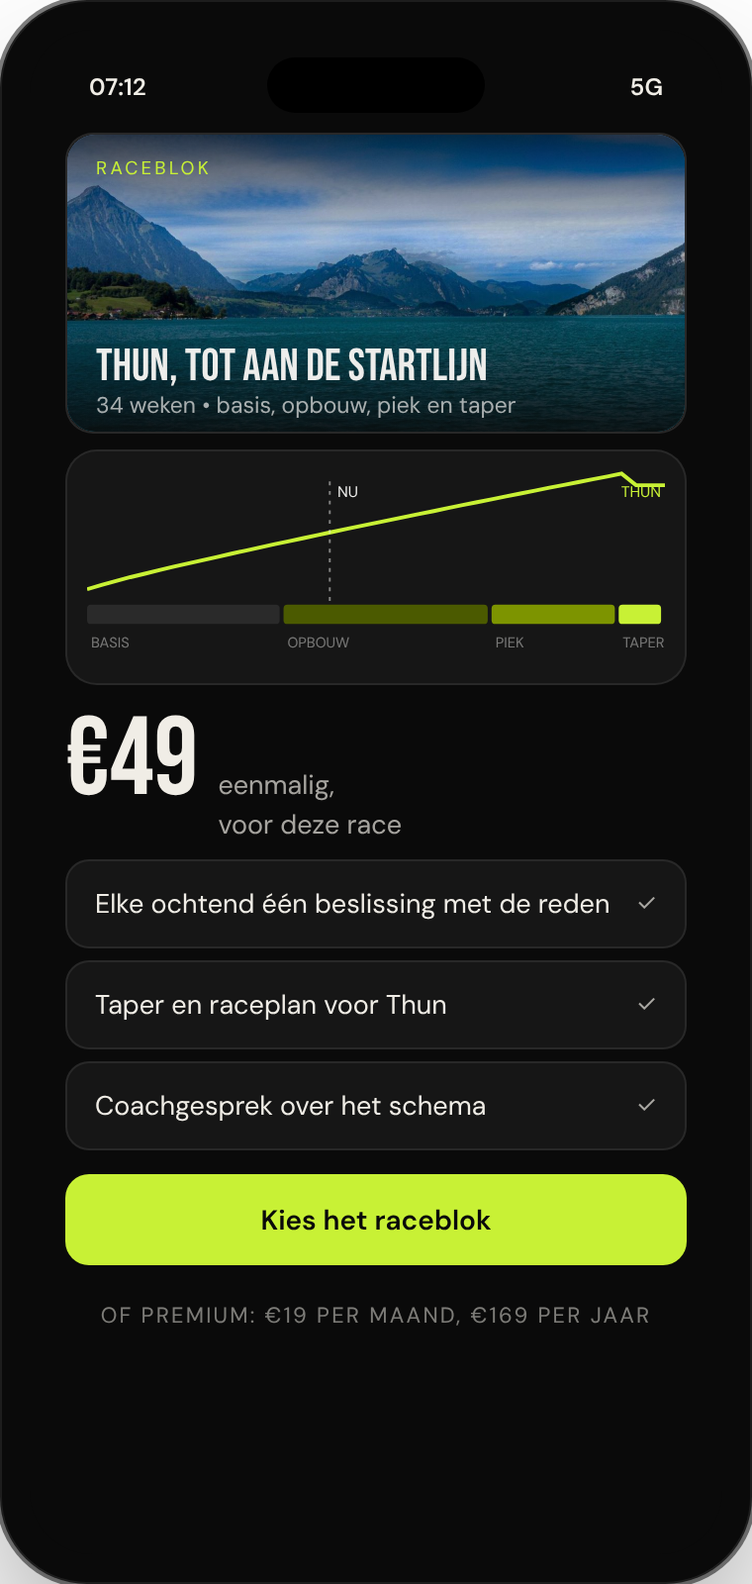
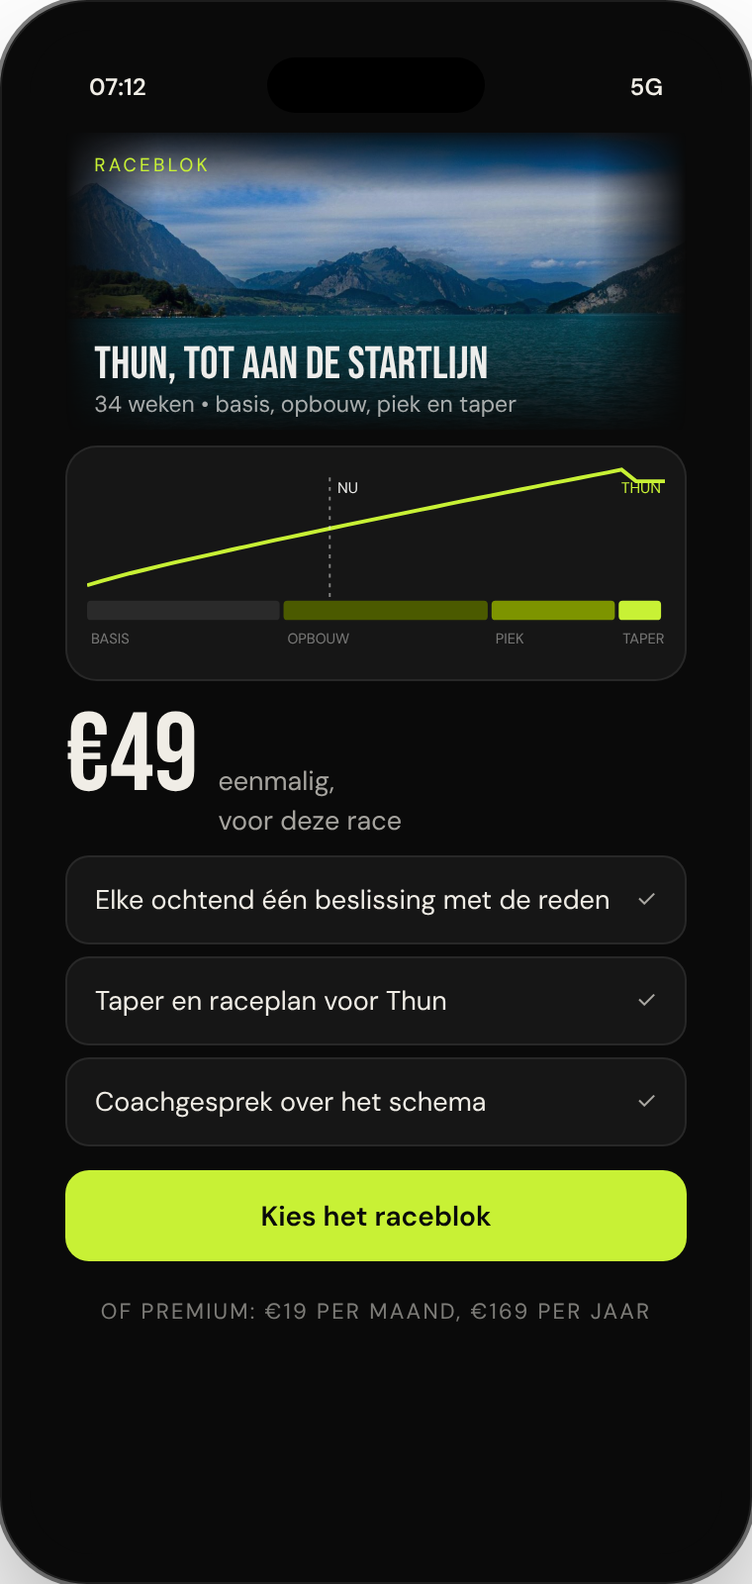
Sfeerfoto's lopen aan alle kanten uit in de achtergrond, zonder kader
Claude-Session: https://claude.ai/code/session_01MGLQXaftnn2txC7bCptMqA

diff --git a/public/mockups/app/o1.html b/public/mockups/app/o1.html
@@ -3,14 +3,14 @@
 <div class="h-l">WAAR TRAIN JE <span class="acc">NAARTOE?</span></div>
 <div class="card" style="padding:10px 12px;margin:10px 0"><span>thu</span><span class="mut">|</span></div>
 <a class="media" href="o2.html" style="display:block;text-decoration:none;color:inherit;border-color:var(--accent)">
-  <svg viewBox="0 0 300 130" width="100%" height="130" class="beeld" preserveAspectRatio="xMinYMid slice"><defs><linearGradient id="lthun" x1="0" y1="0" x2="0" y2="1"><stop offset="0" stop-color="#1a2a3a"/><stop offset="1" stop-color="#c98b5a"/></linearGradient><linearGradient id="vthun" x1="0" y1="0" x2="0" y2="1"><stop offset="0" stop-color="#000" stop-opacity="0.7"/><stop offset="0.35" stop-color="#000" stop-opacity="0"/><stop offset="0.5" stop-color="#000" stop-opacity="0.1"/><stop offset="1" stop-color="#0a0a0a" stop-opacity="0.92"/></linearGradient></defs><rect width="300" height="130" fill="url(#lthun)"/><path d="M0,95 L40,55 L70,80 L110,30 L150,75 L190,40 L230,70 L270,35 L300,60 L300,150 L0,150Z" fill="#2a3440"/><path d="M110,30 L122,44 L100,46Z M270,35 L280,46 L262,47Z" fill="#e8e4dc" opacity="0.8"/><path d="M0,110 L60,90 L120,105 L180,88 L240,104 L300,92 L300,150 L0,150Z" fill="#18212a"/><rect y="118" width="300" height="32" fill="#1d3a4a"/><rect y="118" width="300" height="2" fill="#c98b5a" opacity="0.4"/><image href="foto-thun.jpg" width="300" height="130" preserveAspectRatio="xMidYMid slice"/><rect width="300" height="130" fill="url(#vthun)"/><text x="14" y="22" fill="#c8f135" font-family="DM Sans" font-size="9" letter-spacing="1.5">A-RACE · TRIATLON</text><text x="14" y="102" fill="#ededeb" font-family="Bebas Neue" font-size="22">IRONMAN SWITZERLAND THUN</text><text x="14" y="118" fill="rgba(237,237,235,0.7)" font-family="DM Sans" font-size="11">4 juli 2027 • 34 weken</text></svg>
+  <svg viewBox="0 0 300 130" width="100%" height="130" class="beeld foto" preserveAspectRatio="xMinYMid slice"><defs><linearGradient id="mvthun130" x1="0" y1="0" x2="0" y2="1"><stop offset="0" stop-color="#fff" stop-opacity="0"/><stop offset="0.22" stop-color="#fff" stop-opacity="0.9"/><stop offset="0.55" stop-color="#fff" stop-opacity="0.75"/><stop offset="1" stop-color="#fff" stop-opacity="0"/></linearGradient><linearGradient id="mhthun130" x1="0" y1="0" x2="1" y2="0"><stop offset="0" stop-color="#fff" stop-opacity="0"/><stop offset="0.15" stop-color="#fff" stop-opacity="1"/><stop offset="0.85" stop-color="#fff" stop-opacity="1"/><stop offset="1" stop-color="#fff" stop-opacity="0"/></linearGradient><mask id="kvthun130"><rect width="300" height="130" fill="url(#mvthun130)"/></mask><mask id="khthun130"><rect width="300" height="130" fill="url(#mhthun130)"/></mask></defs><g mask="url(#khthun130)"><g mask="url(#kvthun130)"><image href="foto-thun.jpg" width="300" height="130" preserveAspectRatio="xMidYMid slice"/></g></g><text x="14" y="22" fill="#c8f135" font-family="DM Sans" font-size="9" letter-spacing="1.5">A-RACE · TRIATLON</text><text x="14" y="102" fill="#ededeb" font-family="Bebas Neue" font-size="22">IRONMAN SWITZERLAND THUN</text><text x="14" y="118" fill="rgba(237,237,235,0.7)" font-family="DM Sans" font-size="11">4 juli 2027 • 34 weken</text></svg>
   <div class="in"><svg viewBox="0 0 300 34" width="100%" height="34" preserveAspectRatio="none"><polygon fill="rgba(237,237,235,0.08)" points="0.0,30.0 25.0,30.0 50.0,27.9 75.0,21.5 100.0,15.1 125.0,6.0 150.0,19.3 175.0,26.8 200.0,30.0 225.0,27.9 250.0,22.5 275.0,25.7 300.0,30.0 300,34 0,34"/><polyline fill="none" stroke="#ededeb" stroke-opacity="0.6" stroke-width="1.5" points="0.0,30.0 25.0,30.0 50.0,27.9 75.0,21.5 100.0,15.1 125.0,6.0 150.0,19.3 175.0,26.8 200.0,30.0 225.0,27.9 250.0,22.5 275.0,25.7 300.0,30.0"/></svg>
   <div class="legend"><span>3,8 km zwem</span><span>180 km fiets · 2.100 hm</span><span>42,2 km loop</span></div></div>
 </a>
 <div class="lbl">Populair in België</div>
 <div class="scroll-x">
-  <a class="media" href="o2.html" style="text-decoration:none;color:inherit"><svg viewBox="0 0 300 96" width="100%" height="96" class="beeld" preserveAspectRatio="xMinYMid slice"><defs><linearGradient id="lweg" x1="0" y1="0" x2="0" y2="1"><stop offset="0" stop-color="#10141a"/><stop offset="1" stop-color="#3a4a58"/></linearGradient><linearGradient id="vweg" x1="0" y1="0" x2="0" y2="1"><stop offset="0" stop-color="#000" stop-opacity="0.7"/><stop offset="0.35" stop-color="#000" stop-opacity="0"/><stop offset="0.5" stop-color="#000" stop-opacity="0.1"/><stop offset="1" stop-color="#0a0a0a" stop-opacity="0.92"/></linearGradient></defs><rect width="300" height="96" fill="url(#lweg)"/><path d="M0,100 L80,80 L160,92 L240,74 L300,86 L300,150 L0,150Z" fill="#161c22"/><path d="M130,150 L148,96 L152,96 L170,150Z" fill="#2a2f35"/><path d="M149,150 L150,98 L151,150Z" fill="#c8f135" opacity="0.5"/><image href="foto-weg.jpg" width="300" height="96" preserveAspectRatio="xMidYMid slice"/><rect width="300" height="96" fill="url(#vweg)"/><text x="14" y="22" fill="#c8f135" font-family="DM Sans" font-size="9" letter-spacing="1.5">LOPEN</text><text x="14" y="68" fill="#ededeb" font-family="Bebas Neue" font-size="22">ANTWERP 10 MILES</text><text x="14" y="84" fill="rgba(237,237,235,0.7)" font-family="DM Sans" font-size="11">~15 apr 2027</text></svg></a>
-  <a class="media" href="o2.html" style="text-decoration:none;color:inherit"><svg viewBox="0 0 300 96" width="100%" height="96" class="beeld" preserveAspectRatio="xMinYMid slice"><defs><linearGradient id="lweg" x1="0" y1="0" x2="0" y2="1"><stop offset="0" stop-color="#10141a"/><stop offset="1" stop-color="#3a4a58"/></linearGradient><linearGradient id="vweg" x1="0" y1="0" x2="0" y2="1"><stop offset="0" stop-color="#000" stop-opacity="0.7"/><stop offset="0.35" stop-color="#000" stop-opacity="0"/><stop offset="0.5" stop-color="#000" stop-opacity="0.1"/><stop offset="1" stop-color="#0a0a0a" stop-opacity="0.92"/></linearGradient></defs><rect width="300" height="96" fill="url(#lweg)"/><path d="M0,100 L80,80 L160,92 L240,74 L300,86 L300,150 L0,150Z" fill="#161c22"/><path d="M130,150 L148,96 L152,96 L170,150Z" fill="#2a2f35"/><path d="M149,150 L150,98 L151,150Z" fill="#c8f135" opacity="0.5"/><image href="foto-weg.jpg" width="300" height="96" preserveAspectRatio="xMidYMid slice"/><rect width="300" height="96" fill="url(#vweg)"/><text x="14" y="22" fill="#c8f135" font-family="DM Sans" font-size="9" letter-spacing="1.5">LOPEN</text><text x="14" y="68" fill="#ededeb" font-family="Bebas Neue" font-size="22">BRUSSELS MARATHON</text><text x="14" y="84" fill="rgba(237,237,235,0.7)" font-family="DM Sans" font-size="11">~3 okt 2027</text></svg></a>
+  <a class="media" href="o2.html" style="text-decoration:none;color:inherit"><svg viewBox="0 0 300 96" width="100%" height="96" class="beeld foto" preserveAspectRatio="xMinYMid slice"><defs><linearGradient id="mvweg96" x1="0" y1="0" x2="0" y2="1"><stop offset="0" stop-color="#fff" stop-opacity="0"/><stop offset="0.22" stop-color="#fff" stop-opacity="0.9"/><stop offset="0.55" stop-color="#fff" stop-opacity="0.75"/><stop offset="1" stop-color="#fff" stop-opacity="0"/></linearGradient><linearGradient id="mhweg96" x1="0" y1="0" x2="1" y2="0"><stop offset="0" stop-color="#fff" stop-opacity="0"/><stop offset="0.15" stop-color="#fff" stop-opacity="1"/><stop offset="0.85" stop-color="#fff" stop-opacity="1"/><stop offset="1" stop-color="#fff" stop-opacity="0"/></linearGradient><mask id="kvweg96"><rect width="300" height="96" fill="url(#mvweg96)"/></mask><mask id="khweg96"><rect width="300" height="96" fill="url(#mhweg96)"/></mask></defs><g mask="url(#khweg96)"><g mask="url(#kvweg96)"><image href="foto-weg.jpg" width="300" height="96" preserveAspectRatio="xMidYMid slice"/></g></g><text x="14" y="22" fill="#c8f135" font-family="DM Sans" font-size="9" letter-spacing="1.5">LOPEN</text><text x="14" y="68" fill="#ededeb" font-family="Bebas Neue" font-size="22">ANTWERP 10 MILES</text><text x="14" y="84" fill="rgba(237,237,235,0.7)" font-family="DM Sans" font-size="11">~15 apr 2027</text></svg></a>
+  <a class="media" href="o2.html" style="text-decoration:none;color:inherit"><svg viewBox="0 0 300 96" width="100%" height="96" class="beeld foto" preserveAspectRatio="xMinYMid slice"><defs><linearGradient id="mvweg96" x1="0" y1="0" x2="0" y2="1"><stop offset="0" stop-color="#fff" stop-opacity="0"/><stop offset="0.22" stop-color="#fff" stop-opacity="0.9"/><stop offset="0.55" stop-color="#fff" stop-opacity="0.75"/><stop offset="1" stop-color="#fff" stop-opacity="0"/></linearGradient><linearGradient id="mhweg96" x1="0" y1="0" x2="1" y2="0"><stop offset="0" stop-color="#fff" stop-opacity="0"/><stop offset="0.15" stop-color="#fff" stop-opacity="1"/><stop offset="0.85" stop-color="#fff" stop-opacity="1"/><stop offset="1" stop-color="#fff" stop-opacity="0"/></linearGradient><mask id="kvweg96"><rect width="300" height="96" fill="url(#mvweg96)"/></mask><mask id="khweg96"><rect width="300" height="96" fill="url(#mhweg96)"/></mask></defs><g mask="url(#khweg96)"><g mask="url(#kvweg96)"><image href="foto-weg.jpg" width="300" height="96" preserveAspectRatio="xMidYMid slice"/></g></g><text x="14" y="22" fill="#c8f135" font-family="DM Sans" font-size="9" letter-spacing="1.5">LOPEN</text><text x="14" y="68" fill="#ededeb" font-family="Bebas Neue" font-size="22">BRUSSELS MARATHON</text><text x="14" y="84" fill="rgba(237,237,235,0.7)" font-family="DM Sans" font-size="11">~3 okt 2027</text></svg></a>
 </div>
 <a class="btn-text" href="o2.html">Nog geen race — gewoon fitter worden</a>
 </div></div></div></div><aside class="note"><div class="super">O1 — Onboarding</div><b>Kies je race</b><br/>Tik 1. Eerst de race: daaruit volgen atleettype en periodisering. Uit de database, geen vrij tekstveld.</aside></body></html>

diff --git a/public/mockups/app/p3.html b/public/mockups/app/p3.html
@@ -1,7 +1,7 @@
 <!DOCTYPE html><html lang="nl"><head><meta charset="UTF-8"/><meta name="viewport" content="width=device-width, initial-scale=1.0"/><title>Seizoen | LUPO</title><link href="https://fonts.googleapis.com/css2?family=Bebas+Neue&family=DM+Sans:opsz,wght@9..40,300;9..40,400;9..40,500;9..40,600;9..40,700&display=swap" rel="stylesheet"/><link rel="stylesheet" href="app.css"/></head><body><a href="index.html" class="back-link">← Alle schermen</a><div class="phone-wrapper"><div class="phone"><div class="phone-screen"><div class="phone-notch"></div><div class="status-bar"><span>07:12</span><span>5G</span></div><div class="screen">
 <div class="lbl">Plan</div>
 <div class="seg"><a class="" href="p1.html">Week</a><a class="" href="k1.html">Kalender</a><a class="" href="r1.html">Logboek</a><a class="on" href="p3.html">Seizoen</a><a class="" href="p5.html">Races</a></div>
-<div class="media"><svg viewBox="0 0 300 110" width="100%" height="110" class="beeld" preserveAspectRatio="xMinYMid slice"><defs><linearGradient id="lthun" x1="0" y1="0" x2="0" y2="1"><stop offset="0" stop-color="#1a2a3a"/><stop offset="1" stop-color="#c98b5a"/></linearGradient><linearGradient id="vthun" x1="0" y1="0" x2="0" y2="1"><stop offset="0" stop-color="#000" stop-opacity="0.7"/><stop offset="0.35" stop-color="#000" stop-opacity="0"/><stop offset="0.5" stop-color="#000" stop-opacity="0.1"/><stop offset="1" stop-color="#0a0a0a" stop-opacity="0.92"/></linearGradient></defs><rect width="300" height="110" fill="url(#lthun)"/><path d="M0,95 L40,55 L70,80 L110,30 L150,75 L190,40 L230,70 L270,35 L300,60 L300,150 L0,150Z" fill="#2a3440"/><path d="M110,30 L122,44 L100,46Z M270,35 L280,46 L262,47Z" fill="#e8e4dc" opacity="0.8"/><path d="M0,110 L60,90 L120,105 L180,88 L240,104 L300,92 L300,150 L0,150Z" fill="#18212a"/><rect y="118" width="300" height="32" fill="#1d3a4a"/><rect y="118" width="300" height="2" fill="#c98b5a" opacity="0.4"/><image href="foto-thun.jpg" width="300" height="110" preserveAspectRatio="xMidYMid slice"/><rect width="300" height="110" fill="url(#vthun)"/><text x="14" y="22" fill="#c8f135" font-family="DM Sans" font-size="9" letter-spacing="1.5">A-RACE</text><text x="14" y="82" fill="#ededeb" font-family="Bebas Neue" font-size="22">THUN · 34 WEKEN</text><text x="14" y="98" fill="rgba(237,237,235,0.7)" font-family="DM Sans" font-size="11">4 juli 2027 • doel sub 9u30</text></svg></div>
+<div class="media"><svg viewBox="0 0 300 110" width="100%" height="110" class="beeld foto" preserveAspectRatio="xMinYMid slice"><defs><linearGradient id="mvthun110" x1="0" y1="0" x2="0" y2="1"><stop offset="0" stop-color="#fff" stop-opacity="0"/><stop offset="0.22" stop-color="#fff" stop-opacity="0.9"/><stop offset="0.55" stop-color="#fff" stop-opacity="0.75"/><stop offset="1" stop-color="#fff" stop-opacity="0"/></linearGradient><linearGradient id="mhthun110" x1="0" y1="0" x2="1" y2="0"><stop offset="0" stop-color="#fff" stop-opacity="0"/><stop offset="0.15" stop-color="#fff" stop-opacity="1"/><stop offset="0.85" stop-color="#fff" stop-opacity="1"/><stop offset="1" stop-color="#fff" stop-opacity="0"/></linearGradient><mask id="kvthun110"><rect width="300" height="110" fill="url(#mvthun110)"/></mask><mask id="khthun110"><rect width="300" height="110" fill="url(#mhthun110)"/></mask></defs><g mask="url(#khthun110)"><g mask="url(#kvthun110)"><image href="foto-thun.jpg" width="300" height="110" preserveAspectRatio="xMidYMid slice"/></g></g><text x="14" y="22" fill="#c8f135" font-family="DM Sans" font-size="9" letter-spacing="1.5">A-RACE</text><text x="14" y="82" fill="#ededeb" font-family="Bebas Neue" font-size="22">THUN · 34 WEKEN</text><text x="14" y="98" fill="rgba(237,237,235,0.7)" font-family="DM Sans" font-size="11">4 juli 2027 • doel sub 9u30</text></svg></div>
 <div class="card" style="padding:8px 10px"><span class="lbl" style="margin:0">Fitheid richting de race</span><svg viewBox="0 0 300 110" width="100%" height="110"><rect x="0.0" y="84" width="100.0" height="10" rx="2" fill="#2a2a2a"/><text x="2.0" y="106" fill="rgba(237,237,235,0.45)" font-family="DM Sans" font-size="7.5">BASIS</text><rect x="102.0" y="84" width="106.0" height="10" rx="2" fill="#4b5a00"/><text x="104.0" y="106" fill="rgba(237,237,235,0.45)" font-family="DM Sans" font-size="7.5">OPBOUW</text><rect x="210.0" y="84" width="64.0" height="10" rx="2" fill="#7d9400"/><text x="212.0" y="106" fill="rgba(237,237,235,0.45)" font-family="DM Sans" font-size="7.5">PIEK</text><rect x="276.0" y="84" width="22.0" height="10" rx="2" fill="#c8f135"/><text x="278.0" y="106" fill="rgba(237,237,235,0.45)" font-family="DM Sans" font-size="7.5">TAPER</text><polyline fill="none" stroke="#c8f135" stroke-width="2" points="0.0,76.0 7.5,73.7 15.0,71.7 22.5,69.7 30.0,67.9 37.5,66.1 45.0,64.3 52.5,62.6 60.0,60.9 67.5,59.2 75.0,57.5 82.5,55.9 90.0,54.2 97.5,52.6 105.0,51.0 112.5,49.4 120.0,47.8 127.5,46.2 135.0,44.6 142.5,43.1 150.0,41.5 157.5,40.0 165.0,38.4 172.5,36.9 180.0,35.4 187.5,33.8 195.0,32.3 202.5,30.8 210.0,29.3 217.5,27.8 225.0,26.3 232.5,24.8 240.0,23.3 247.5,21.9 255.0,20.4 262.5,18.9 270.0,17.5 277.5,16.0 285.0,22.0 292.5,22.0 300.0,22.0"/><line x1="126.0" y1="6" x2="126.0" y2="84" stroke="#ededeb" stroke-opacity="0.5" stroke-dasharray="2 3"/><text x="130.0" y="14" fill="#ededeb" font-family="DM Sans" font-size="8">NU</text><text x="298" y="14" text-anchor="end" fill="#c8f135" font-family="DM Sans" font-size="8">THUN</text></svg></div>
 <a class="card warnc" href="p4.html"><div class="h-m">Pre-mortem →</div><div class="p">Drie risico's uit je eigen data. Zwemmen ontbreekt.</div></a>
 <nav class="tabbar"><a href="d1.html" class="">Vandaag</a><a href="p1.html" class="on">Plan</a><a href="l1.html" class="">Ladder</a><a href="s1.html" class="">Samen</a><a href="i1.html" class="">Ik</a></nav></div><a class="fab" href="c1.html">Vraag de coach</a></div></div></div><aside class="note"><div class="super">P3 — Plan</div><b>Seizoen</b><br/>Blokken richting de A-race, berekend uit de racedatum.</aside></body></html>

diff --git a/public/mockups/app/y1.html b/public/mockups/app/y1.html
@@ -1,5 +1,5 @@
 <!DOCTYPE html><html lang="nl"><head><meta charset="UTF-8"/><meta name="viewport" content="width=device-width, initial-scale=1.0"/><title>Taper | LUPO</title><link href="https://fonts.googleapis.com/css2?family=Bebas+Neue&family=DM+Sans:opsz,wght@9..40,300;9..40,400;9..40,500;9..40,600;9..40,700&display=swap" rel="stylesheet"/><link rel="stylesheet" href="app.css"/></head><body><a href="index.html" class="back-link">← Alle schermen</a><div class="phone-wrapper"><div class="phone"><div class="phone-screen"><div class="phone-notch"></div><div class="status-bar"><span>07:12</span><span>5G</span></div><div class="screen">
-<div class="media"><svg viewBox="0 0 300 120" width="100%" height="120" class="beeld" preserveAspectRatio="xMinYMid slice"><defs><linearGradient id="lthun" x1="0" y1="0" x2="0" y2="1"><stop offset="0" stop-color="#1a2a3a"/><stop offset="1" stop-color="#c98b5a"/></linearGradient><linearGradient id="vthun" x1="0" y1="0" x2="0" y2="1"><stop offset="0" stop-color="#000" stop-opacity="0.7"/><stop offset="0.35" stop-color="#000" stop-opacity="0"/><stop offset="0.5" stop-color="#000" stop-opacity="0.1"/><stop offset="1" stop-color="#0a0a0a" stop-opacity="0.92"/></linearGradient></defs><rect width="300" height="120" fill="url(#lthun)"/><path d="M0,95 L40,55 L70,80 L110,30 L150,75 L190,40 L230,70 L270,35 L300,60 L300,150 L0,150Z" fill="#2a3440"/><path d="M110,30 L122,44 L100,46Z M270,35 L280,46 L262,47Z" fill="#e8e4dc" opacity="0.8"/><path d="M0,110 L60,90 L120,105 L180,88 L240,104 L300,92 L300,150 L0,150Z" fill="#18212a"/><rect y="118" width="300" height="32" fill="#1d3a4a"/><rect y="118" width="300" height="2" fill="#c98b5a" opacity="0.4"/><image href="foto-thun.jpg" width="300" height="120" preserveAspectRatio="xMidYMid slice"/><rect width="300" height="120" fill="url(#vthun)"/><text x="14" y="22" fill="#c8f135" font-family="DM Sans" font-size="9" letter-spacing="1.5">TAPER</text><text x="14" y="92" fill="#ededeb" font-family="Bebas Neue" font-size="22">THUN · NOG 9 DAGEN</text><text x="14" y="108" fill="rgba(237,237,235,0.7)" font-family="DM Sans" font-size="11">4 juli 2027 • doel sub 9u30</text></svg></div>
+<div class="media"><svg viewBox="0 0 300 120" width="100%" height="120" class="beeld foto" preserveAspectRatio="xMinYMid slice"><defs><linearGradient id="mvthun120" x1="0" y1="0" x2="0" y2="1"><stop offset="0" stop-color="#fff" stop-opacity="0"/><stop offset="0.22" stop-color="#fff" stop-opacity="0.9"/><stop offset="0.55" stop-color="#fff" stop-opacity="0.75"/><stop offset="1" stop-color="#fff" stop-opacity="0"/></linearGradient><linearGradient id="mhthun120" x1="0" y1="0" x2="1" y2="0"><stop offset="0" stop-color="#fff" stop-opacity="0"/><stop offset="0.15" stop-color="#fff" stop-opacity="1"/><stop offset="0.85" stop-color="#fff" stop-opacity="1"/><stop offset="1" stop-color="#fff" stop-opacity="0"/></linearGradient><mask id="kvthun120"><rect width="300" height="120" fill="url(#mvthun120)"/></mask><mask id="khthun120"><rect width="300" height="120" fill="url(#mhthun120)"/></mask></defs><g mask="url(#khthun120)"><g mask="url(#kvthun120)"><image href="foto-thun.jpg" width="300" height="120" preserveAspectRatio="xMidYMid slice"/></g></g><text x="14" y="22" fill="#c8f135" font-family="DM Sans" font-size="9" letter-spacing="1.5">TAPER</text><text x="14" y="92" fill="#ededeb" font-family="Bebas Neue" font-size="22">THUN · NOG 9 DAGEN</text><text x="14" y="108" fill="rgba(237,237,235,0.7)" font-family="DM Sans" font-size="11">4 juli 2027 • doel sub 9u30</text></svg></div>
 <div class="card" style="padding:12px"><div style="display:flex;justify-content:space-between"><span class="lbl" style="margin:0">Belasting en vorm</span><span class="legend" style="margin:0"><span><b style="background:#3a3a3a"></b>belasting</span><span><b style="background:#c8f135"></b>vorm</span></span></div><svg viewBox="0 0 300 110" width="100%" height="110"><rect x="4.0" y="36.0" width="12" height="56.0" rx="2" fill="#3a3a3a"/><rect x="25.5" y="40.8" width="12" height="51.2" rx="2" fill="#3a3a3a"/><rect x="47.1" y="34.4" width="12" height="57.6" rx="2" fill="#3a3a3a"/><rect x="68.6" y="44.0" width="12" height="48.0" rx="2" fill="#3a3a3a"/><rect x="90.2" y="92.0" width="12" height="0.0" rx="2" fill="#3a3a3a"/><rect x="111.7" y="48.0" width="12" height="44.0" rx="2" fill="#3a3a3a"/><rect x="133.2" y="53.6" width="12" height="38.4" rx="2" fill="#3a3a3a"/><rect x="154.8" y="60.0" width="12" height="32.0" rx="2" fill="#3a3a3a"/><rect x="176.3" y="92.0" width="12" height="0.0" rx="2" fill="#3a3a3a"/><rect x="197.8" y="64.0" width="12" height="28.0" rx="2" fill="#3a3a3a"/><rect x="219.4" y="69.6" width="12" height="22.4" rx="2" fill="#3a3a3a"/><rect x="240.9" y="92.0" width="12" height="0.0" rx="2" fill="#3a3a3a"/><rect x="262.5" y="76.0" width="12" height="16.0" rx="2" fill="#3a3a3a"/><rect x="284.0" y="92.0" width="12" height="0.0" rx="2" fill="#3a3a3a"/><polyline fill="none" stroke="#c8f135" stroke-width="2.2" points="10.0,68.4 31.5,65.2 53.1,70.0 74.6,62.0 96.2,49.2 117.7,54.0 139.2,47.6 160.8,41.2 182.3,33.2 203.8,31.6 225.4,26.8 246.9,22.0 268.5,20.4 290.0,15.6"/><circle cx="290.0" cy="15.6" r="4" fill="#c8f135" stroke="#0a0a0a" stroke-width="2"/><text x="296" y="7.6" text-anchor="end" fill="#c8f135" font-family="DM Sans" font-size="9">vorm +19</text><text x="10.0" y="106" text-anchor="start" fill="rgba(240,237,230,0.4)" font-family="DM Sans" font-size="8">−14 d</text><text x="160.8" y="106" text-anchor="middle" fill="rgba(240,237,230,0.4)" font-family="DM Sans" font-size="8">−7 d</text><text x="290.0" y="106" text-anchor="end" fill="rgba(240,237,230,0.4)" font-family="DM Sans" font-size="8">race</text></svg></div>
 <div class="why">Volume <b>−45%</b>, intensiteit blijft. Zware benen deze week horen bij een taper: je lichaam bouwt op wat je trainde.</div>
 <div class="lbl">Nog te doen</div>

diff --git a/public/mockups/app/a1.html b/public/mockups/app/a1.html
@@ -1,5 +1,5 @@
 <!DOCTYPE html><html lang="nl"><head><meta charset="UTF-8"/><meta name="viewport" content="width=device-width, initial-scale=1.0"/><title>Aanbod: raceblok €49 | LUPO</title><link href="https://fonts.googleapis.com/css2?family=Bebas+Neue&family=DM+Sans:opsz,wght@9..40,300;9..40,400;9..40,500;9..40,600;9..40,700&display=swap" rel="stylesheet"/><link rel="stylesheet" href="app.css"/></head><body><a href="index.html" class="back-link">← Alle schermen</a><div class="phone-wrapper"><div class="phone"><div class="phone-screen"><div class="phone-notch"></div><div class="status-bar"><span>07:12</span><span>5G</span></div><div class="screen">
-<div class="media"><svg viewBox="0 0 300 150" width="100%" height="150" class="beeld" preserveAspectRatio="xMinYMid slice"><defs><linearGradient id="lthun" x1="0" y1="0" x2="0" y2="1"><stop offset="0" stop-color="#1a2a3a"/><stop offset="1" stop-color="#c98b5a"/></linearGradient><linearGradient id="vthun" x1="0" y1="0" x2="0" y2="1"><stop offset="0" stop-color="#000" stop-opacity="0.7"/><stop offset="0.35" stop-color="#000" stop-opacity="0"/><stop offset="0.5" stop-color="#000" stop-opacity="0.1"/><stop offset="1" stop-color="#0a0a0a" stop-opacity="0.92"/></linearGradient></defs><rect width="300" height="150" fill="url(#lthun)"/><path d="M0,95 L40,55 L70,80 L110,30 L150,75 L190,40 L230,70 L270,35 L300,60 L300,150 L0,150Z" fill="#2a3440"/><path d="M110,30 L122,44 L100,46Z M270,35 L280,46 L262,47Z" fill="#e8e4dc" opacity="0.8"/><path d="M0,110 L60,90 L120,105 L180,88 L240,104 L300,92 L300,150 L0,150Z" fill="#18212a"/><rect y="118" width="300" height="32" fill="#1d3a4a"/><rect y="118" width="300" height="2" fill="#c98b5a" opacity="0.4"/><image href="foto-thun.jpg" width="300" height="150" preserveAspectRatio="xMidYMid slice"/><rect width="300" height="150" fill="url(#vthun)"/><text x="14" y="22" fill="#c8f135" font-family="DM Sans" font-size="9" letter-spacing="1.5">RACEBLOK</text><text x="14" y="122" fill="#ededeb" font-family="Bebas Neue" font-size="22">THUN, TOT AAN DE STARTLIJN</text><text x="14" y="138" fill="rgba(237,237,235,0.7)" font-family="DM Sans" font-size="11">34 weken • basis, opbouw, piek en taper</text></svg></div>
+<div class="media"><svg viewBox="0 0 300 150" width="100%" height="150" class="beeld foto" preserveAspectRatio="xMinYMid slice"><defs><linearGradient id="mvthun150" x1="0" y1="0" x2="0" y2="1"><stop offset="0" stop-color="#fff" stop-opacity="0"/><stop offset="0.22" stop-color="#fff" stop-opacity="0.9"/><stop offset="0.55" stop-color="#fff" stop-opacity="0.75"/><stop offset="1" stop-color="#fff" stop-opacity="0"/></linearGradient><linearGradient id="mhthun150" x1="0" y1="0" x2="1" y2="0"><stop offset="0" stop-color="#fff" stop-opacity="0"/><stop offset="0.15" stop-color="#fff" stop-opacity="1"/><stop offset="0.85" stop-color="#fff" stop-opacity="1"/><stop offset="1" stop-color="#fff" stop-opacity="0"/></linearGradient><mask id="kvthun150"><rect width="300" height="150" fill="url(#mvthun150)"/></mask><mask id="khthun150"><rect width="300" height="150" fill="url(#mhthun150)"/></mask></defs><g mask="url(#khthun150)"><g mask="url(#kvthun150)"><image href="foto-thun.jpg" width="300" height="150" preserveAspectRatio="xMidYMid slice"/></g></g><text x="14" y="22" fill="#c8f135" font-family="DM Sans" font-size="9" letter-spacing="1.5">RACEBLOK</text><text x="14" y="122" fill="#ededeb" font-family="Bebas Neue" font-size="22">THUN, TOT AAN DE STARTLIJN</text><text x="14" y="138" fill="rgba(237,237,235,0.7)" font-family="DM Sans" font-size="11">34 weken • basis, opbouw, piek en taper</text></svg></div>
 <div class="card" style="padding:8px 10px"><svg viewBox="0 0 300 96" width="100%" height="96"><rect x="0.0" y="70" width="100.0" height="10" rx="2" fill="#2a2a2a"/><text x="2.0" y="92" fill="rgba(237,237,235,0.45)" font-family="DM Sans" font-size="7.5">BASIS</text><rect x="102.0" y="70" width="106.0" height="10" rx="2" fill="#4b5a00"/><text x="104.0" y="92" fill="rgba(237,237,235,0.45)" font-family="DM Sans" font-size="7.5">OPBOUW</text><rect x="210.0" y="70" width="64.0" height="10" rx="2" fill="#7d9400"/><text x="212.0" y="92" fill="rgba(237,237,235,0.45)" font-family="DM Sans" font-size="7.5">PIEK</text><rect x="276.0" y="70" width="22.0" height="10" rx="2" fill="#c8f135"/><text x="278.0" y="92" fill="rgba(237,237,235,0.45)" font-family="DM Sans" font-size="7.5">TAPER</text><polyline fill="none" stroke="#c8f135" stroke-width="2" points="0.0,62.0 7.5,59.7 15.0,57.7 22.5,55.7 30.0,53.9 37.5,52.1 45.0,50.3 52.5,48.6 60.0,46.9 67.5,45.2 75.0,43.5 82.5,41.9 90.0,40.2 97.5,38.6 105.0,37.0 112.5,35.4 120.0,33.8 127.5,32.2 135.0,30.6 142.5,29.1 150.0,27.5 157.5,26.0 165.0,24.4 172.5,22.9 180.0,21.4 187.5,19.8 195.0,18.3 202.5,16.8 210.0,15.3 217.5,13.8 225.0,12.3 232.5,10.8 240.0,9.3 247.5,7.9 255.0,6.4 262.5,4.9 270.0,3.5 277.5,2.0 285.0,8.0 292.5,8.0 300.0,8.0"/><line x1="126.0" y1="6" x2="126.0" y2="70" stroke="#ededeb" stroke-opacity="0.5" stroke-dasharray="2 3"/><text x="130.0" y="14" fill="#ededeb" font-family="DM Sans" font-size="8">NU</text><text x="298" y="14" text-anchor="end" fill="#c8f135" font-family="DM Sans" font-size="8">THUN</text></svg></div>
 <div style="display:flex;align-items:baseline;gap:10px;margin:6px 0"><div class="h-xl">€49</div><div class="p">eenmalig,<br/>voor deze race</div></div>
 <div class="row"><span>Elke ochtend één beslissing met de reden</span><span class="r acc">✓</span></div>

diff --git a/public/mockups/app/v4.html b/public/mockups/app/v4.html
@@ -1,5 +1,5 @@
 <!DOCTYPE html><html lang="nl"><head><meta charset="UTF-8"/><meta name="viewport" content="width=device-width, initial-scale=1.0"/><title>Openbaar profiel | LUPO</title><link href="https://fonts.googleapis.com/css2?family=Bebas+Neue&family=DM+Sans:opsz,wght@9..40,300;9..40,400;9..40,500;9..40,600;9..40,700&display=swap" rel="stylesheet"/><link rel="stylesheet" href="app.css"/></head><body><a href="index.html" class="back-link">← Alle schermen</a><div class="phone-wrapper"><div class="phone"><div class="phone-screen"><div class="phone-notch"></div><div class="status-bar"><span>07:12</span><span>5G</span></div><div class="screen">
-<div class="media" style="margin-top:4px"><svg viewBox="0 0 300 120" width="100%" height="120" class="beeld" preserveAspectRatio="xMinYMid slice"><defs><linearGradient id="lbaan" x1="0" y1="0" x2="0" y2="1"><stop offset="0" stop-color="#0e1012"/><stop offset="1" stop-color="#1e2a1e"/></linearGradient><linearGradient id="vbaan" x1="0" y1="0" x2="0" y2="1"><stop offset="0" stop-color="#000" stop-opacity="0.7"/><stop offset="0.35" stop-color="#000" stop-opacity="0"/><stop offset="0.5" stop-color="#000" stop-opacity="0.1"/><stop offset="1" stop-color="#0a0a0a" stop-opacity="0.92"/></linearGradient></defs><rect width="300" height="120" fill="url(#lbaan)"/><ellipse cx="150" cy="128" rx="170" ry="46" fill="#3a1e18"/><ellipse cx="150" cy="128" rx="130" ry="30" fill="#1d3320"/><ellipse cx="150" cy="128" rx="150" ry="38" fill="none" stroke="#e8e4dc" stroke-opacity="0.25" stroke-dasharray="3 5"/><image href="foto-baan.jpg" width="300" height="120" preserveAspectRatio="xMidYMid slice"/><rect width="300" height="120" fill="url(#vbaan)"/><text x="14" y="22" fill="#c8f135" font-family="DM Sans" font-size="9" letter-spacing="1.5">OPENBAAR PROFIEL</text><text x="14" y="92" fill="#ededeb" font-family="Bebas Neue" font-size="22">ATLEET R · 21</text><text x="14" y="108" fill="rgba(237,237,235,0.7)" font-family="DM Sans" font-size="11">Leuven • DFRNT golf sep 26: top 2%</text></svg></div>
+<div class="media" style="margin-top:4px"><svg viewBox="0 0 300 120" width="100%" height="120" class="beeld foto" preserveAspectRatio="xMinYMid slice"><defs><linearGradient id="mvbaan120" x1="0" y1="0" x2="0" y2="1"><stop offset="0" stop-color="#fff" stop-opacity="0"/><stop offset="0.22" stop-color="#fff" stop-opacity="0.9"/><stop offset="0.55" stop-color="#fff" stop-opacity="0.75"/><stop offset="1" stop-color="#fff" stop-opacity="0"/></linearGradient><linearGradient id="mhbaan120" x1="0" y1="0" x2="1" y2="0"><stop offset="0" stop-color="#fff" stop-opacity="0"/><stop offset="0.15" stop-color="#fff" stop-opacity="1"/><stop offset="0.85" stop-color="#fff" stop-opacity="1"/><stop offset="1" stop-color="#fff" stop-opacity="0"/></linearGradient><mask id="kvbaan120"><rect width="300" height="120" fill="url(#mvbaan120)"/></mask><mask id="khbaan120"><rect width="300" height="120" fill="url(#mhbaan120)"/></mask></defs><g mask="url(#khbaan120)"><g mask="url(#kvbaan120)"><image href="foto-baan.jpg" width="300" height="120" preserveAspectRatio="xMidYMid slice"/></g></g><text x="14" y="22" fill="#c8f135" font-family="DM Sans" font-size="9" letter-spacing="1.5">OPENBAAR PROFIEL</text><text x="14" y="92" fill="#ededeb" font-family="Bebas Neue" font-size="22">ATLEET R · 21</text><text x="14" y="108" fill="rgba(237,237,235,0.7)" font-family="DM Sans" font-size="11">Leuven • DFRNT golf sep 26: top 2%</text></svg></div>
 <div class="tiles"><div class="tile"><div class="k">LUPO-score</div><div class="v acc">812</div><div class="s">top 6%</div></div><div class="tile"><div class="k">Trede</div><div class="v">05</div><div class="s">Pack Talent</div></div><div class="tile"><div class="k">Races</div><div class="v">7</div><div class="s">geclaimd</div></div></div>
 <div class="card" style="padding:10px 12px 6px"><span class="lbl" style="margin:0">Score · 12 maanden</span><svg viewBox="0 0 300 62" width="100%" height="62"><polygon fill="url(#g12)" points="4.0,47.6 30.5,43.8 57.1,40.2 83.6,38.2 110.2,34.2 136.7,29.5 163.3,24.8 189.8,21.8 216.4,18.7 242.9,14.0 269.5,10.7 296.0,8.4 296.0,48 4.0,48"/><defs><linearGradient id="g12" x1="0" y1="0" x2="0" y2="1"><stop offset="0" stop-color="#c8f135" stop-opacity="0.25"/><stop offset="1" stop-color="#c8f135" stop-opacity="0"/></linearGradient></defs><polyline fill="none" stroke="#c8f135" stroke-width="2" stroke-linejoin="round" points="4.0,47.6 30.5,43.8 57.1,40.2 83.6,38.2 110.2,34.2 136.7,29.5 163.3,24.8 189.8,21.8 216.4,18.7 242.9,14.0 269.5,10.7 296.0,8.4"/><circle cx="296.0" cy="8.4" r="4" fill="#c8f135" stroke="#050505" stroke-width="2"/><text x="4.0" y="60" text-anchor="middle" fill="rgba(237,237,235,0.35)" font-family="DM Sans" font-size="8">nov</text><text x="296.0" y="60" text-anchor="middle" fill="rgba(237,237,235,0.35)" font-family="DM Sans" font-size="8">nu</text></svg></div>
 <div class="row"><span>Antwerp 10 Miles 2026</span><span class="r">56:40 · M20 #3</span></div>

diff --git a/public/mockups/app/t1.html b/public/mockups/app/t1.html
@@ -1,5 +1,5 @@
 <!DOCTYPE html><html lang="nl"><head><meta charset="UTF-8"/><meta name="viewport" content="width=device-width, initial-scale=1.0"/><title>DFRNT: meedoen | LUPO</title><link href="https://fonts.googleapis.com/css2?family=Bebas+Neue&family=DM+Sans:opsz,wght@9..40,300;9..40,400;9..40,500;9..40,600;9..40,700&display=swap" rel="stylesheet"/><link rel="stylesheet" href="app.css"/></head><body><a href="index.html" class="back-link">← Alle schermen</a><div class="phone-wrapper"><div class="phone"><div class="phone-screen"><div class="phone-notch"></div><div class="status-bar"><span>07:12</span><span>5G</span></div><div class="screen">
-<div class="media"><svg viewBox="0 0 300 170" width="100%" height="170" class="beeld" preserveAspectRatio="xMinYMid slice"><defs><linearGradient id="lbaan" x1="0" y1="0" x2="0" y2="1"><stop offset="0" stop-color="#0e1012"/><stop offset="1" stop-color="#1e2a1e"/></linearGradient><linearGradient id="vbaan" x1="0" y1="0" x2="0" y2="1"><stop offset="0" stop-color="#000" stop-opacity="0.7"/><stop offset="0.35" stop-color="#000" stop-opacity="0"/><stop offset="0.5" stop-color="#000" stop-opacity="0.1"/><stop offset="1" stop-color="#0a0a0a" stop-opacity="0.92"/></linearGradient></defs><rect width="300" height="170" fill="url(#lbaan)"/><ellipse cx="150" cy="128" rx="170" ry="46" fill="#3a1e18"/><ellipse cx="150" cy="128" rx="130" ry="30" fill="#1d3320"/><ellipse cx="150" cy="128" rx="150" ry="38" fill="none" stroke="#e8e4dc" stroke-opacity="0.25" stroke-dasharray="3 5"/><image href="foto-baan.jpg" width="300" height="170" preserveAspectRatio="xMidYMid slice"/><rect width="300" height="170" fill="url(#vbaan)"/><text x="14" y="22" fill="#c8f135" font-family="DM Sans" font-size="9" letter-spacing="1.5">DFRNT TRYOUT</text><text x="14" y="142" fill="#ededeb" font-family="Bebas Neue" font-size="22">TOON WAT JE KAN.</text><text x="14" y="158" fill="rgba(237,237,235,0.7)" font-family="DM Sans" font-size="11">Golf maart 2027 • 10 weken • gratis</text></svg></div>
+<div class="media"><svg viewBox="0 0 300 170" width="100%" height="170" class="beeld foto" preserveAspectRatio="xMinYMid slice"><defs><linearGradient id="mvbaan170" x1="0" y1="0" x2="0" y2="1"><stop offset="0" stop-color="#fff" stop-opacity="0"/><stop offset="0.22" stop-color="#fff" stop-opacity="0.9"/><stop offset="0.55" stop-color="#fff" stop-opacity="0.75"/><stop offset="1" stop-color="#fff" stop-opacity="0"/></linearGradient><linearGradient id="mhbaan170" x1="0" y1="0" x2="1" y2="0"><stop offset="0" stop-color="#fff" stop-opacity="0"/><stop offset="0.15" stop-color="#fff" stop-opacity="1"/><stop offset="0.85" stop-color="#fff" stop-opacity="1"/><stop offset="1" stop-color="#fff" stop-opacity="0"/></linearGradient><mask id="kvbaan170"><rect width="300" height="170" fill="url(#mvbaan170)"/></mask><mask id="khbaan170"><rect width="300" height="170" fill="url(#mhbaan170)"/></mask></defs><g mask="url(#khbaan170)"><g mask="url(#kvbaan170)"><image href="foto-baan.jpg" width="300" height="170" preserveAspectRatio="xMidYMid slice"/></g></g><text x="14" y="22" fill="#c8f135" font-family="DM Sans" font-size="9" letter-spacing="1.5">DFRNT TRYOUT</text><text x="14" y="142" fill="#ededeb" font-family="Bebas Neue" font-size="22">TOON WAT JE KAN.</text><text x="14" y="158" fill="rgba(237,237,235,0.7)" font-family="DM Sans" font-size="11">Golf maart 2027 • 10 weken • gratis</text></svg></div>
 <div style="display:flex;align-items:center;gap:10px;margin:4px 0 10px"><div class="avs"><span class="av" style="background:#c8f135;">JW</span><span class="av" style="background:#7d9400;">BV</span><span class="av" style="background:#ffb020;">AM</span><span class="av" style="background:#2a2a2a;">+</span></div><span class="p">1.240 ingeschreven</span></div>
 <div class="card" style="padding:10px 12px"><svg viewBox="0 0 300 50" width="100%" height="50">
 <line x1="10" y1="20" x2="290" y2="20" stroke="#2a2a2a" stroke-width="2"/><rect x="10" y="17" width="34" height="6" rx="3" fill="#c8f135"/><rect x="250" y="17" width="40" height="6" rx="3" fill="#c8f135"/><rect x="44" y="18" width="206" height="4" fill="#4b5a00"/>

diff --git a/public/mockups/app/app.css b/public/mockups/app/app.css
@@ -564,6 +564,8 @@ table.t td { padding: 8px 4px; border-top: 1px solid var(--line); }
 
 .beeld, .map { display:block; border-radius: 14px; }
 .media { border-radius: 14px; overflow: hidden; border: 1px solid var(--line); margin-bottom: 8px; background: var(--card); }
+.media:has(> .beeld), a.media:has(.beeld) { border: 0; background: transparent; border-radius: 0; }
+.media .beeld { border-radius: 0; }
 .media .in { padding: 10px 12px 12px; }
 .hero { display: flex; align-items: center; gap: 14px; margin: 6px 0 4px; }
 .zbar { display: flex; height: 10px; border-radius: 5px; overflow: hidden; gap: 2px; margin-top: 6px; }

diff --git a/scripts/visueel.py b/scripts/visueel.py
@@ -125,8 +125,6 @@ def beeld(scene="thun", h=150, titel="", sub="", tag=""):
         lucht = ("#0e1012", "#1e2a1e")
         lagen = ('<ellipse cx="150" cy="128" rx="170" ry="46" fill="#3a1e18"/><ellipse cx="150" cy="128" rx="130" ry="30" fill="#1d3320"/>'
                  '<ellipse cx="150" cy="128" rx="150" ry="38" fill="none" stroke="#e8e4dc" stroke-opacity="0.25" stroke-dasharray="3 5"/>')
-    if scene in ("thun", "weg", "baan"):
-        lagen += f'<image href="foto-{scene}.jpg" width="300" height="{h}" preserveAspectRatio="xMidYMid slice"/>'
     tekst = ""
     if tag:
         tekst += f'<text x="14" y="22" fill="{ACC}" font-family="DM Sans" font-size="9" letter-spacing="1.5">{tag}</text>'
@@ -134,10 +132,18 @@ def beeld(scene="thun", h=150, titel="", sub="", tag=""):
         tekst += f'<text x="14" y="{h-28}" fill="#ededeb" font-family="Bebas Neue" font-size="22">{titel}</text>'
     if sub:
         tekst += f'<text x="14" y="{h-12}" fill="rgba(237,237,235,0.7)" font-family="DM Sans" font-size="11">{sub}</text>'
+    if scene in ("thun", "weg", "baan"):
+        # Echte foto die aan alle kanten uitloopt in de achtergrond (masker), tekst erover.
+        return (f'<svg viewBox="0 0 300 {h}" width="100%" height="{h}" class="beeld foto" preserveAspectRatio="xMinYMid slice"><defs>'
+                f'<linearGradient id="mv{scene}{h}" x1="0" y1="0" x2="0" y2="1"><stop offset="0" stop-color="#fff" stop-opacity="0"/><stop offset="0.22" stop-color="#fff" stop-opacity="0.9"/><stop offset="0.55" stop-color="#fff" stop-opacity="0.75"/><stop offset="1" stop-color="#fff" stop-opacity="0"/></linearGradient>'
+                f'<linearGradient id="mh{scene}{h}" x1="0" y1="0" x2="1" y2="0"><stop offset="0" stop-color="#fff" stop-opacity="0"/><stop offset="0.15" stop-color="#fff" stop-opacity="1"/><stop offset="0.85" stop-color="#fff" stop-opacity="1"/><stop offset="1" stop-color="#fff" stop-opacity="0"/></linearGradient>'
+                f'<mask id="kv{scene}{h}"><rect width="300" height="{h}" fill="url(#mv{scene}{h})"/></mask><mask id="kh{scene}{h}"><rect width="300" height="{h}" fill="url(#mh{scene}{h})"/></mask></defs>'
+                f'<g mask="url(#kh{scene}{h})"><g mask="url(#kv{scene}{h})"><image href="foto-{scene}.jpg" width="300" height="{h}" preserveAspectRatio="xMidYMid slice"/></g></g>{tekst}</svg>')
     return (f'<svg viewBox="0 0 300 {h}" width="100%" height="{h}" class="beeld" preserveAspectRatio="xMinYMid slice">'
             f'<defs><linearGradient id="l{scene}" x1="0" y1="0" x2="0" y2="1"><stop offset="0" stop-color="{lucht[0]}"/><stop offset="1" stop-color="{lucht[1]}"/></linearGradient>'
-            f'<linearGradient id="v{scene}" x1="0" y1="0" x2="0" y2="1"><stop offset="0" stop-color="#000" stop-opacity="0.7"/><stop offset="0.35" stop-color="#000" stop-opacity="0"/><stop offset="0.5" stop-color="#000" stop-opacity="0.1"/><stop offset="1" stop-color="#0a0a0a" stop-opacity="0.92"/></linearGradient></defs>'
-            f'<rect width="300" height="{h}" fill="url(#l{scene})"/>{lagen}<rect width="300" height="{h}" fill="url(#v{scene})"/>{tekst}</svg>')
+            f'<linearGradient id="v{scene}" x1="0" y1="0" x2="0" y2="1"><stop offset="0" stop-color="#0a0a0a" stop-opacity="0.85"/><stop offset="0.3" stop-color="#0a0a0a" stop-opacity="0.1"/><stop offset="0.5" stop-color="#0a0a0a" stop-opacity="0.15"/><stop offset="0.82" stop-color="#0a0a0a" stop-opacity="0.85"/><stop offset="1" stop-color="#0a0a0a" stop-opacity="1"/></linearGradient>'
+            f'<linearGradient id="z{scene}" x1="0" y1="0" x2="1" y2="0"><stop offset="0" stop-color="#0a0a0a" stop-opacity="0.85"/><stop offset="0.12" stop-color="#0a0a0a" stop-opacity="0.35"/><stop offset="0.5" stop-color="#0a0a0a" stop-opacity="0"/><stop offset="0.88" stop-color="#0a0a0a" stop-opacity="0.35"/><stop offset="1" stop-color="#0a0a0a" stop-opacity="0.85"/></linearGradient></defs>'
+            f'<rect width="300" height="{h}" fill="url(#l{scene})"/>{lagen}<rect width="300" height="{h}" fill="url(#z{scene})"/><rect width="300" height="{h}" fill="url(#v{scene})"/>{tekst}</svg>')
 
 
 def staven(waarden, labels, h=70, b=300, markeer=None, gepland=None):
@@ -223,6 +229,8 @@ def periodisering(b=300, h=110, nu=0.42):
 CSS_EXTRA = """
 .beeld, .map { display:block; border-radius: 14px; }
 .media { border-radius: 14px; overflow: hidden; border: 1px solid var(--line); margin-bottom: 8px; background: var(--card); }
+.media:has(> .beeld), a.media:has(.beeld) { border: 0; background: transparent; border-radius: 0; }
+.media .beeld { border-radius: 0; }
 .media .in { padding: 10px 12px 12px; }
 .hero { display: flex; align-items: center; gap: 14px; margin: 6px 0 4px; }
 .zbar { display: flex; height: 10px; border-radius: 5px; overflow: hidden; gap: 2px; margin-top: 6px; }
